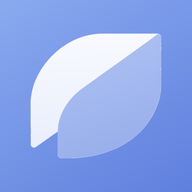
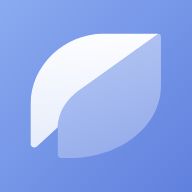
Icône vectorielle (SVG) et PNG générés depuis le SVG
Claude-Session: https://claude.ai/code/session_01N2EvyKBMYFj5rMcz1j3U4K

diff --git a/index.html b/index.html
@@ -9,8 +9,9 @@
 <meta name="apple-mobile-web-app-title" content="Rentya">
 <meta name="apple-mobile-web-app-status-bar-style" content="default">
 <meta name="theme-color" content="#F6F7FB">
-<link rel="apple-touch-icon" href="icon-180.png?v=2">
-<link rel="icon" type="image/png" sizes="32x32" href="icon-32.png?v=2">
+<link rel="apple-touch-icon" href="icon-180.png?v=3">
+<link rel="icon" type="image/svg+xml" href="icon.svg?v=3">
+<link rel="icon" type="image/png" sizes="32x32" href="icon-32.png?v=3">
 <link rel="manifest" href="manifest.webmanifest">
 <style>
   html,body{margin:0;height:100%;background:#F6F7FB;font-family:-apple-system,BlinkMacSystemFont,"Segoe UI",Roboto,Arial,sans-serif;color:#1F2A44;overscroll-behavior:none;overflow:hidden}
